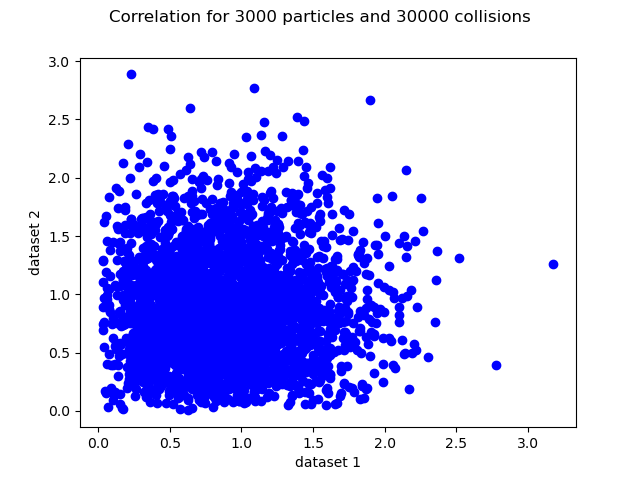
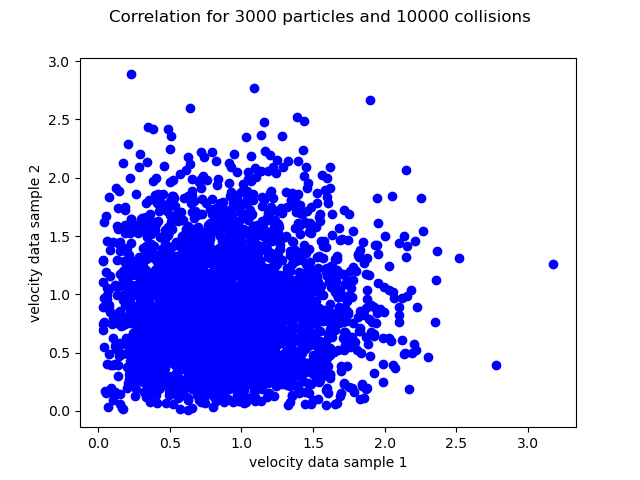
fixed some errors

Changed region(s): [[0.375, 0.9375, 0.625, 1.0], [0.0312, 0.3438, 0.0625, 0.6875]]

diff --git a/problems.py b/problems.py
@@ -34,8 +34,9 @@ def problem1(N1,m0,n,interval,start,rc,r0,v0):
     
     #checking correlation
     print("Pearson correlation coefficient: ",stats.pearsonr(velCorr[0],velCorr[1]))
+    #correlation plot
     fig,ax=plt.subplots(1,1)
-    ax.scatter(velCorr[0],velCorr[1],"bo")
+    ax.plot(velCorr[0],velCorr[1],"bo")
     ax.set_xlabel("velocity data sample 1")
     ax.set_ylabel("velocity data sample 2")
     plt.suptitle("Correlation for "+str(N1)+" particles and "+str(interval)+" collisions")
@@ -49,9 +50,6 @@ def problem1(N1,m0,n,interval,start,rc,r0,v0):
 """PROBLEM 2"""
 
 def problem2(N2,m0,n,r0,v0,rc):
-    N2=1000
-    m0=1
-    n=10000
 
     #initialize mass array
     masses2=np.full(N2,m0)
@@ -63,19 +61,26 @@ def problem2(N2,m0,n,r0,v0,rc):
     particleArray2=initParticleArray(N2,masses2,r0,m0,v0,rc)
 
     #initial plot
-    initialVelocities=getVelocities(particleArray2)
-    histogram(initialVelocities,"initHistp2")
+    initParrm0=particleArray2[:x]
+    initParr4m0=particleArray2[x:]
+    histogram2(getVelocities(initParrm0),getVelocities(initParr4m0),"p2start")
+    
 
     #run simulation
-    finalParr=simulation(particleArray2,n,RC)
+    finalParr=simulation(particleArray2,n,rc)
 
     #Get arrays corresponding to the light and heavy particles
     Parrm0=finalParr[:x]
     Parr4m0=finalParr[x:]
+    #final plot
+    histogram2(getVelocities(initParrm0),getVelocities(initParr4m0),"p2end")
+    #HistogramMB(getVelocities(initParrm0),m0,"p2m0MB")
+    #HistogramMB(getVelocities(initParr4m0),4*m0,"p24m0MB")
+
 
     #Calculate average kinetic energies and velocities
-    kineticEnergym0,averageVelocitym0=averageKineticEnergyAndVelocity(Parrm0)
-    kineticEnergy4m0,averageVelocity4m0=averageKineticEnergyAndVelocity(Parr4m0)
+    kineticEnergym0,averageVelocitym0=avrgKinEnergyAndVelocity(Parrm0)
+    kineticEnergy4m0,averageVelocity4m0=avrgKinEnergyAndVelocity(Parr4m0)
 
     #printing results
     print("Average velocity for particles with mass m0: ",averageVelocitym0)
@@ -100,44 +105,49 @@ def problem3(N3,m0,n,interval,start,r0,v0,rc):
     kinE4m0=[]
     velm0=[]
     vel4m0=[]
-
+    kinE=[]
+    velAll=[]
     #initialize array
     particleArray3=initParticleArray(N3,masses3,r0,m0,v0,rc)
+
     #run simulation and collect data
-    data=simulationData(particleArray3,n,interval,start,RC)
+    data=simulationData(particleArray3,n,interval,start,rc)
+
 
     #calculate average velocity and kinetic energy and save to lists
     for parr in data:
         Parrm0=parr[:x]
         Parr4m0=parr[x:]
-        Ekm0,vm0=averageKineticEnergyAndVelocity(Parrm0)
-        Ek4m0,v4m0=averageKineticEnergyAndVelocity(Parr4m0)
+        Ekm0,vm0=avrgKinEnergyAndVelocity(Parrm0)
+        Ek4m0,v4m0=avrgKinEnergyAndVelocity(Parr4m0)
+        Ek,vel=avrgKinEnergyAndVelocity(parr)
         kinE4m0.append(Ek4m0)
         kinEm0.append(Ekm0)
         velm0.append(vm0)
         vel4m0.append(v4m0)
+        kinE.append(Ek)
+        velAll.append(vel)
 
-    #plotting kinetic energy:
+    print(kinE)
+    
     timesteps=np.arange(0,n+interval,interval)
-    fig1,ax1=plt.subplots(1,1)
-    fig1.suptitle("Average kinetic energy")
-    ax1.set_xlabel("Number of collisions")
-    ax1.set_ylabel("Kinetic energy")
-    ax1.plot(timesteps,kinE4m0,label="Kinetic Energy of particles with mass 4m0")
-    ax1.plot(timesteps,kinEm0,label="Kinetic Energy of particles with mass m0")
-    ax1.legend()
-    fig1.savefig("KineticEneryPlot")
-    plt.show()
+    fig,ax=plt.subplots(2,1,sharex=True)
+    fig.suptitle("Average kinetic energy and velocity, rc="+str(rc))
+    #plotting kinetic energy:
+    ax[0].set_ylabel("Average kinetic energy")
+    ax[0].plot(timesteps,kinE4m0,label="Particles with mass 4m0")
+    ax[0].plot(timesteps,kinEm0,label="Particles with mass m0")
+    ax[0].plot(timesteps,kinE,label="All particles")
+    ax[0].legend()
 
     #plotting velocities:
-    fig2,ax2=plt.subplots(1,1)
-    fig2.suptitle("Average velocity")
-    ax2.set_xlabel("Number of collisions")
-    ax2.set_ylabel("Velocity")
-    ax2.plot(timesteps,velm0,label="Velocity of particles with mass m0")
-    ax2.plot(timesteps,vel4m0,label="Velocity of particles with mass 4m0")
-    ax2.legend()
-    fig2.savefig("VelocityPlot")
+    ax[1].set_xlabel("Number of collisions")
+    ax[1].set_ylabel("Average velocity")
+    ax[1].plot(timesteps,velm0,label="Particles with mass m0")
+    ax[1].plot(timesteps,vel4m0,label="Particles with mass 4m0")
+    ax[1].plot(timesteps,velAll,label="Particles with mass 4m0")
+    ax[1].legend()
+    fig.savefig("VelocityEkPlot"+str(rc)+".png")
     plt.show()
 
 
@@ -152,9 +162,22 @@ r0=0.001 #must be large enough so that particle particle collisions happen often
 v0=1
 
 
-problem1(N1,m0,n1,interval1,start1,rc,r0,v0)
-#problem2(N2,m0,n,r0,v0,rc)
-#problem3(N3,m0,n,interval,start,r0,v0,rc)
+#problem1(N1,m0,n1,interval1,start1,rc,r0,v0)
+
+N2=3000
+n2=10000
+problem2(N2,m0,n2,r0,v0,rc)
+
+
+N3=3000
+n3=30000
+interval3=300
+start3=0
+# rcList=[0.8,0.9,1]
+# for rc3 in rcList:
+#     problem3(N3,m0,n3,interval3,start3,r0,v0,rc3)
+
+
 
 
 #problem1(2000,1,20000,5000,10000)

diff --git a/problem4.py b/problem4.py
@@ -178,14 +178,42 @@ def massCraterSize(initialParr,masslist,N,interval,RC): #masslist is a list of m
     npCrater=np.array(craterData)
     np.save("massCraterData.npy",masslist,npCrater) #save data to binary file
 
+def velocityCraterSize(initialParr,velocityList,N,interval,RC): #masslist is a list of masses to plot for #filename=name of file data is saved to
+    #initialize array
+    #initialParr=initParticlesForProjectileImpact(N,m0,r0,1,r,v0) #set m to 1, can change later
+    print(velocityList)
+    craterData=[]
+    for v in velocityList:
+
+        #initialization
+        parr=initialParr.copy() #copy intitial particle array
+        parr[N,VY]=-v
+        print("current velocity",parr[N,VY])
+        initialEnergy=totKinEnergy(parr)
+
+        events=firstCollisions(parr)
+        Time=0.0 #set start time to zero
+
+        #newInterval=int(interval*(v)) #to make more appropriate intervals
+        #print("interval",newInterval)
+
+        #run simulation
+        print("start")
+        while((totKinEnergy(parr))>=0.1*initialEnergy): #continue until 10% or less than initial energy
+            print(totKinEnergy(parr)/(initialEnergy))
+            Time = runSimulation(interval,events,parr,Time,RC) #run simulation and update time
+        crater=craterSize(initialParr,parr) #calculate crater size
+        craterData.append(crater) 
+    npCrater=np.array(craterData)
+    np.save("velocityCraterData.npy",velocityList,npCrater) #save data to binary file
 
     
 
 
 """values for the different parameters"""
-N=1000 #number of ground particles
+N=500 #number of ground particles
 n=9000 #number of collisions in simulation
-interval=10 #interval between data sampling
+interval=500 #interval between data sampling
 start=0 #start of data sampling
 m0=1#mass of ground particles
 r0=np.sqrt(1/(N*4*math.pi)) #radius of mass particles
@@ -208,20 +236,23 @@ RC=0.5
 #np.save("particleArray.npy",parr) #save array as binary file
 
 initParticleArray=np.load("particleArray.npy")
-# newArray=initParticleArray.copy()
+newArray=initParticleArray.copy()
 # newArray[N,M]=m
 
 
+craterSimulation(newArray,N,100,RC)
 
-#craterSimulation(newArray,N,100,RC)
+#parrC=initParticlesForProjectileImpact(N,m0,r0,m,r,v)
+#craterVisualization(parrC,n,3000,0,RC)
 
-parrC=initParticlesForProjectileImpact(N,m0,r0,m,r,v)
-craterVisualization(parrC,n,3000,0,RC)
 
-#massList=[m0,7.5*m0,15*m0]
-#massCraterSize(initParticleArray,massList,N,interval,RC)
+velocityList=[15,30]
+velocityCraterSize(initParticleArray,velocityList,N,interval,RC)
 
-#plotParameterVsCraterSize("MassCrater.npy","Projectile Mass","MassVsCraterPlot")
+# massList=[m0,7.5*m0,15*m0]
+# massCraterSize(initParticleArray,massList,N,interval,RC)
+
+# plotParameterVsCraterSize("MassCrater.npy","Projectile Mass","MassVsCraterPlot")
 
 
 #code for plotting for different parameters: take parr as input

diff --git a/functions.py b/functions.py
@@ -20,6 +20,23 @@ def histogram(velocities,filename):#filename is a string containing the name to 
     plt.show()
 
 
+def histogram2(velocitiesm0,velocities4m0,filename):
+    fig,ax=plt.subplots(1,2)
+    fig.suptitle("Speed distribution")
+    ax[0].set_xlabel("Speed")
+    ax[0].set_ylabel("Number of particles")
+    ax[1].set_xlabel("Speed")
+    ax[1].set_ylabel("Number of particles")
+    ax[0].hist(velocitiesm0,bins=41,range=(0,4))
+    ax[0].set_title("mass m0")
+    ax[1].hist(velocities4m0,bins=41,range=(0,4))
+    ax[1].set_title("mass 4m0")
+    plt.tight_layout()
+    fig.savefig(filename)
+    plt.show()
+
+
+
 #NB 2 degrees 
 def HistogramMB(velocities,m,filename): #filename is a string containing the name to save the file as
     v=np.linspace(0,4)
@@ -32,19 +49,21 @@ def HistogramMB(velocities,m,filename): #filename is a string containing the nam
     fig,ax=plt.subplots(1,1)
     fig.suptitle("Speed distribution")
     ax.set_xlabel("Speed")
-    ax.set_ylabel("Number of particles")
-    ax.hist(velocities,bins=91,density=True)
+    ax.set_ylabel("Probability density")
+    ax.hist(velocities,bins=41,density=True)
     ax.plot(v,mb)
     fig.savefig(filename)
     plt.show()
     return averageVelocity
 
-#returns average kinetic energy and velocity for the particles in the input array
-def averageKineticEnergyAndVelocity(parr): #assumes same mass for whole array
-    velocities=getVelocities(parr)
-    averageVelocity=np.sum(velocities)/len(velocities)
-    kineticEnergy=averageVelocity*averageVelocity*0.5*parr[1,M]
-    return kineticEnergy, averageVelocity
+
+#returns average speed and kinetic energy of the particles in parr
+def avrgKinEnergyAndVelocity(parr):
+    velocity=parr[:,VX]*parr[:,VX]+parr[:,VY]*parr[:,VY]
+    avrgVel=np.sum(velocity)/len(parr)
+    kineticEnergy=(parr[:,VX]*parr[:,VX]+parr[:,VY]*parr[:,VY])*parr[:,M]*0.5
+    avrgEk=np.sum(kineticEnergy)/len(parr)
+    return avrgEk,avrgVel
 
 """
 #Delete?
@@ -59,6 +78,8 @@ def averageKineticEnergy(parr):
 def totKinEnergy(parr):
     kineticEnergy=(parr[:,VX]*parr[:,VX]+parr[:,VY]*parr[:,VY])*parr[:,M]*0.5
     return np.sum(kineticEnergy)
+
+
     
 
 def craterSize(initialParr,Parr):

diff --git a/simulation.py b/simulation.py
@@ -75,7 +75,7 @@ def initParticleArray(N,masses,r,m,v0,rc,xmin=0,xmax=1,ymin=0,ymax=1): #masses i
                 pos=np.array([random.uniform(r,1-r),random.uniform(r,1-r)])
                 Overlapping=False
                 for posi in occupiedPositions:
-                    if (4*r*r>np.dot((posi-pos),(posi-pos))):
+                    if (4*r*r>np.dot((posi-pos),(posi-pos))): #checking if overlapping, taking radius into account
                         Overlapping=True
                         break
 
@@ -308,7 +308,7 @@ def simulationData(particleArray,n,interval,start,RC): #start=number of collisio
     if (start==0): #copy initial array only if start of sampling set to zero
         data.append(particleArray.copy())
     Time=0.0 #set start time to zero
-    for i in range(int(n/interval)+1):
+    for i in range(int(n/interval)):
         Time = runSimulation(interval,eventQueue,particleArray, Time,RC) #run simulation and update time
         if ((i+1)*interval>=start): #save data
             print("data saved")
